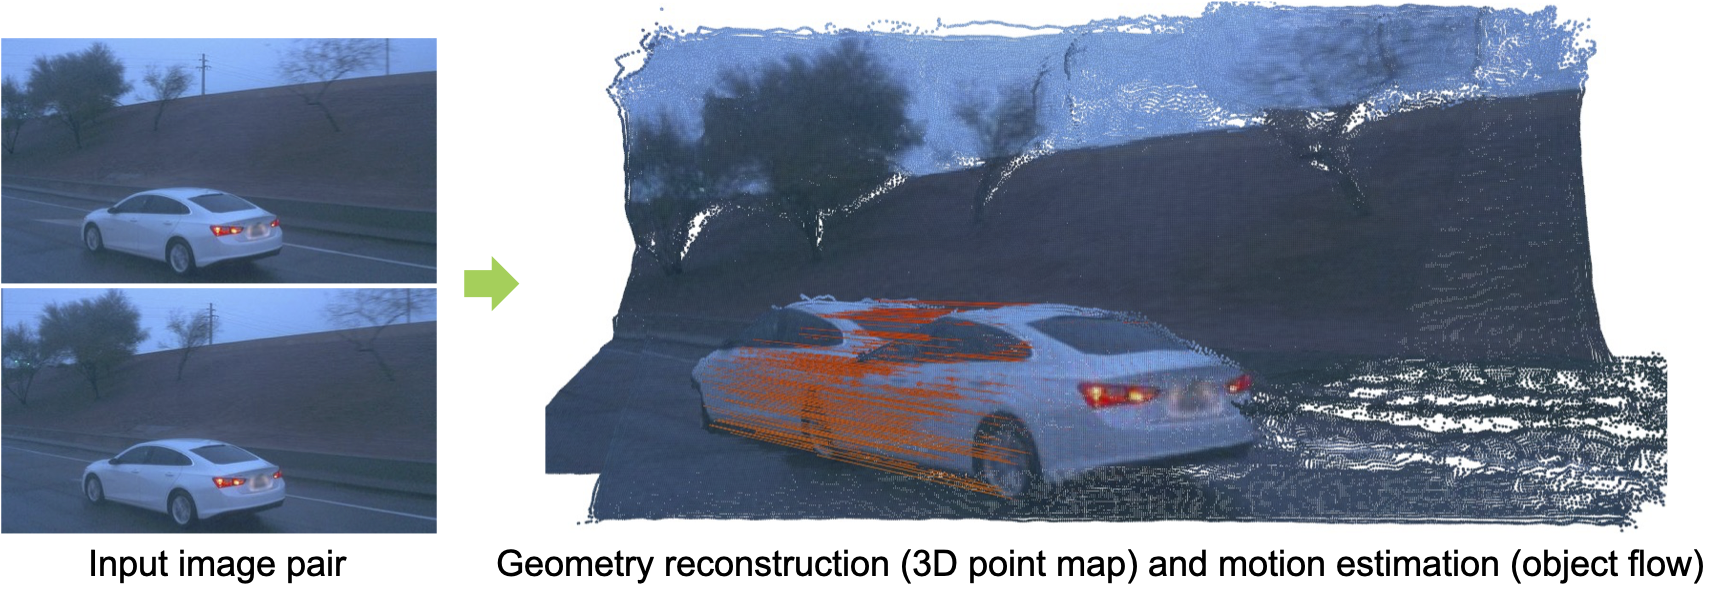
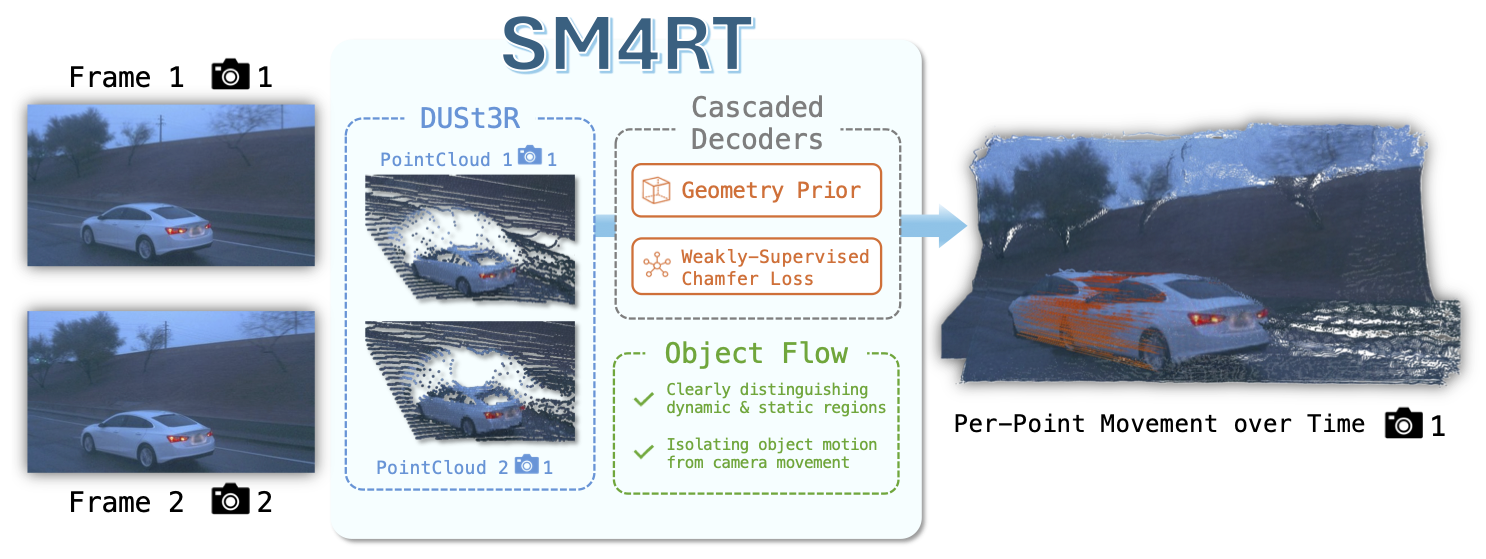
update: latest paper content

diff --git a/index.html b/index.html
@@ -219,7 +219,7 @@
             <!-- TODO: Replace with brief description -->
             <p>We present DexMan, an automated framework that converts human visual demonstrations into bimanual dexterous manipulation skills for humanoid robots in simulation.</p>
             <!-- TODO: Replace with venue and year -->
-            <span class="work-venue">Under Review at ICLR 2026</span>
+            <span class="work-venue">Preprint on Arxiv</span>
           </div>
           <i class="fas fa-external-link-alt"></i>
         </a>
@@ -238,9 +238,9 @@
             <div class="is-size-5 publication-authors">
               <!-- TODO: Replace with your paper authors and their personal links -->
               <span class="author-block">
-                <a href="https://pcseanlo.github.io/" target="_blank">Pang-Chi Lo</a><sup>* 1, 2</sup>,</span>
+                <a href="https://pcseanlo.github.io/" target="_blank">Pang-Chi Lo</a><sup>1</sup>,</span>
                 <span class="author-block">
-                  <a href="" target="_blank">Jhao-Syun Lai</a><sup>* 2</sup>,</span>
+                  <a href="" target="_blank">Jhao-Syun Lai</a><sup>2</sup>,</span>
                   <span class="author-block">
                     <a href="https://twke18.github.io/" target="_blank">Tsung-Wei Ke</a><sup>2</sup>
                   </span>
@@ -249,9 +249,9 @@
                   <div class="is-size-5 publication-authors">
                     <!-- TODO: Replace with your institution and conference/journal info -->
                     <span class="author-block"><sup>1</sup>Carnegie Mellon University, <sup>2</sup>National Taiwan University</span>
-                    <!-- <span class="author-block"><br>Conference name and year</span> -->
+                    <span class="author-block"><br>BMVC 2026</span>
                     <!-- TODO: Remove this line if no equal contribution -->
-                    <span class="eql-cntrb"><small><br><sup>*</sup>Indicates Equal Contribution</small></span>
+                    <!-- <span class="eql-cntrb"><small><br><sup>*</sup>Indicates Equal Contribution</small></span> -->
                   </div>
 
                   <div class="column has-text-centered">
@@ -296,7 +296,7 @@
                     <span class="icon">
                       <i class="fab fa-github"></i>
                     </span>
-                    <span>Code</span>
+                    <span>Code (Coming Soon)</span>
                   </a>
                 </span>
             </div>
@@ -336,7 +336,7 @@
         <div class="content has-text-justified">
           <!-- TODO: Replace with your paper abstract -->
           <p>
-            We introduce SM4RT, a multi-task cascade feed-forward model for dynamic scene reconstruction from RGB videos. While existing feed-forward approaches typically address geometry reconstruction and motion estimation separately -- and often predict motions in a single coordinate frame that must account for camera movement -- SM4RT solves these tasks sequentially by first reconstructing 3D geometry and then bootstrapping motion estimation from the predicted structure. By expressing each pixel's 3D motion in its corresponding camera frame, SM4RT reduces ambiguity arising from camera motion. To address the sparsity of real-world motion labels, SM4RT further incorporates a weakly supervised loss that regularizes unlabeled point motions using labeled point positions at the other time step. We evaluate motion estimation on three dynamic-scene datasets -- Kubric, Waymo, and Point Odyssey -- and SM4RT consistently outperforms all baselines across metrics. We additionally benchmark geometry reconstruction on five dynamic scene datasets and show that SM4RT achieves competitive performance with state-of-the-art methods. Overall, our unified framework demonstrates that combining geometry reconstruction and motion estimation in a cascade not only avoids performance trade-offs but also enhances motion estimation through improved geometric reasoning.
+            We introduce SM4RT, a multi-task cascade feed-forward model for dynamic scene reconstruction from RGB videos. While existing feed-forward approaches typically address geometry reconstruction and motion estimation separately -- and often predict motions in a single coordinate frame that must account for camera movement -- SM4RT solves these tasks sequentially by first reconstructing 3D geometry and then bootstrapping motion estimation from the predicted structure. By expressing each pixel's 3D motion in its corresponding camera frame, SM4RT reduces ambiguity arising from camera motion. To address the sparsity of real-world motion labels, SM4RT further incorporates a weakly supervised loss that regularizes unlabeled point motions using labeled point positions at the other time step. We evaluate motion estimation on three dynamic-scene datasets -- Kubric, Waymo, and Point Odyssey -- and SM4RT achieves the best performance on most metrics compared with prior baselines. We additionally benchmark geometry reconstruction on five dynamic scene datasets and show that SM4RT achieves competitive performance with state-of-the-art methods. Overall, our unified framework demonstrates that combining geometry reconstruction and motion estimation in a cascade not only avoids performance trade-offs but also enhances motion estimation through improved geometric reasoning.
           </p>
         </div>
       </div>
